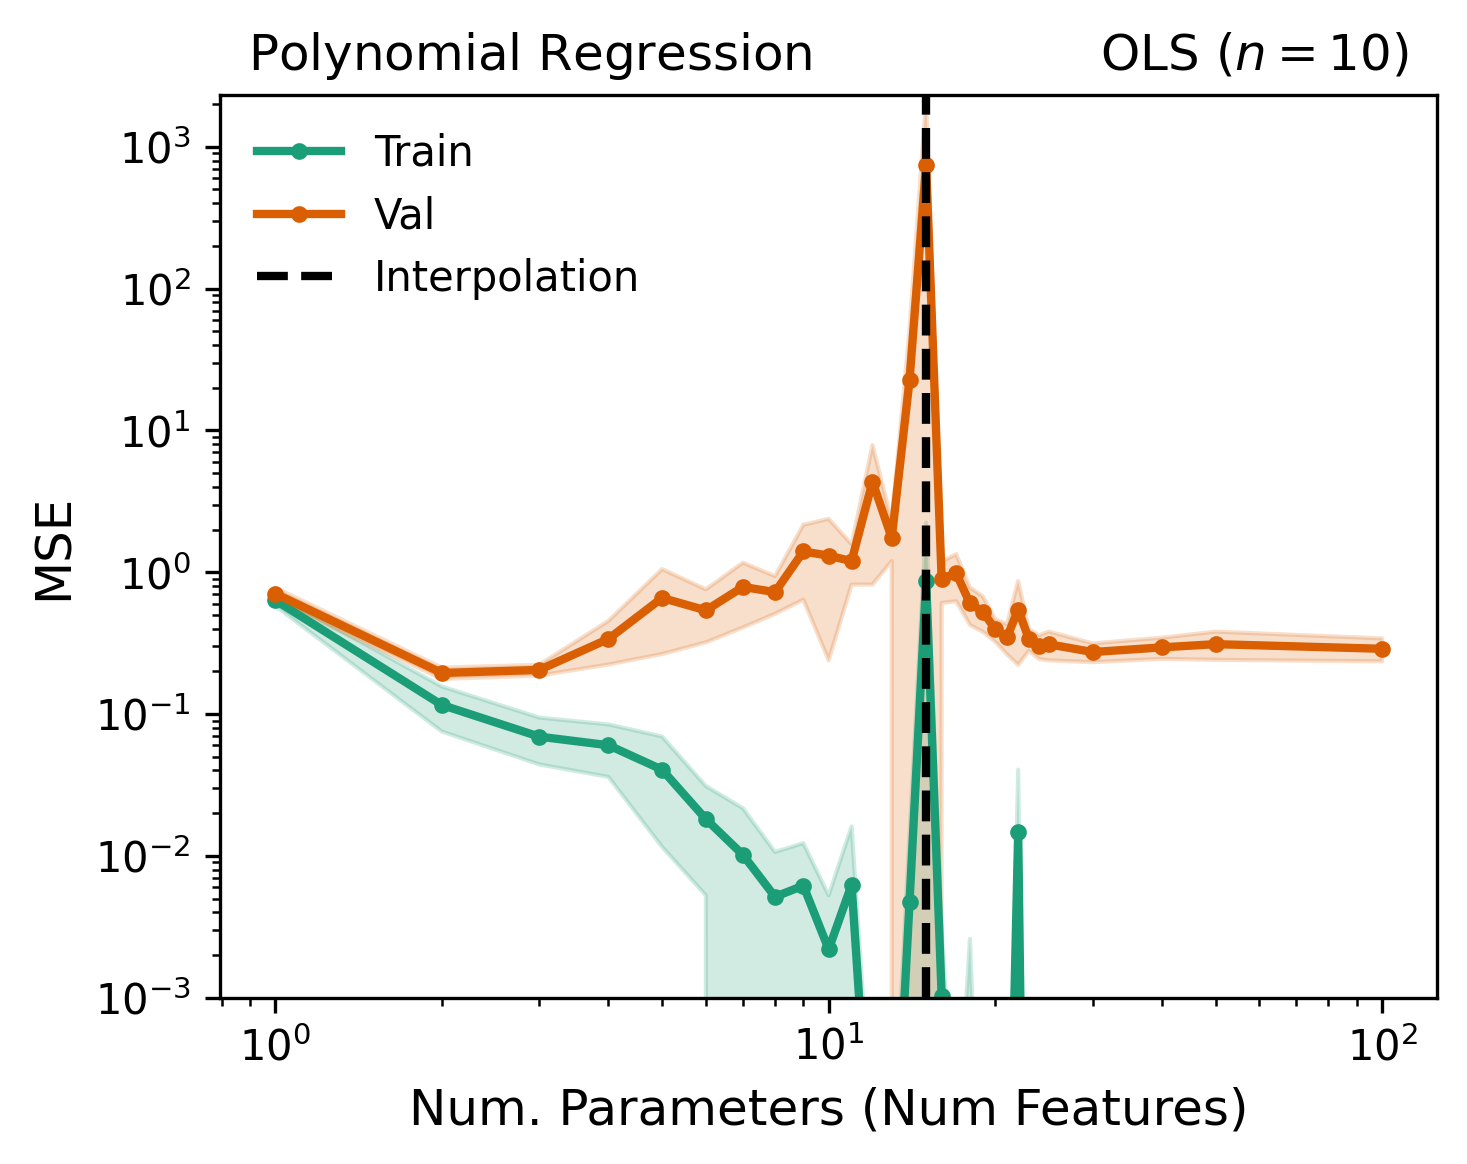
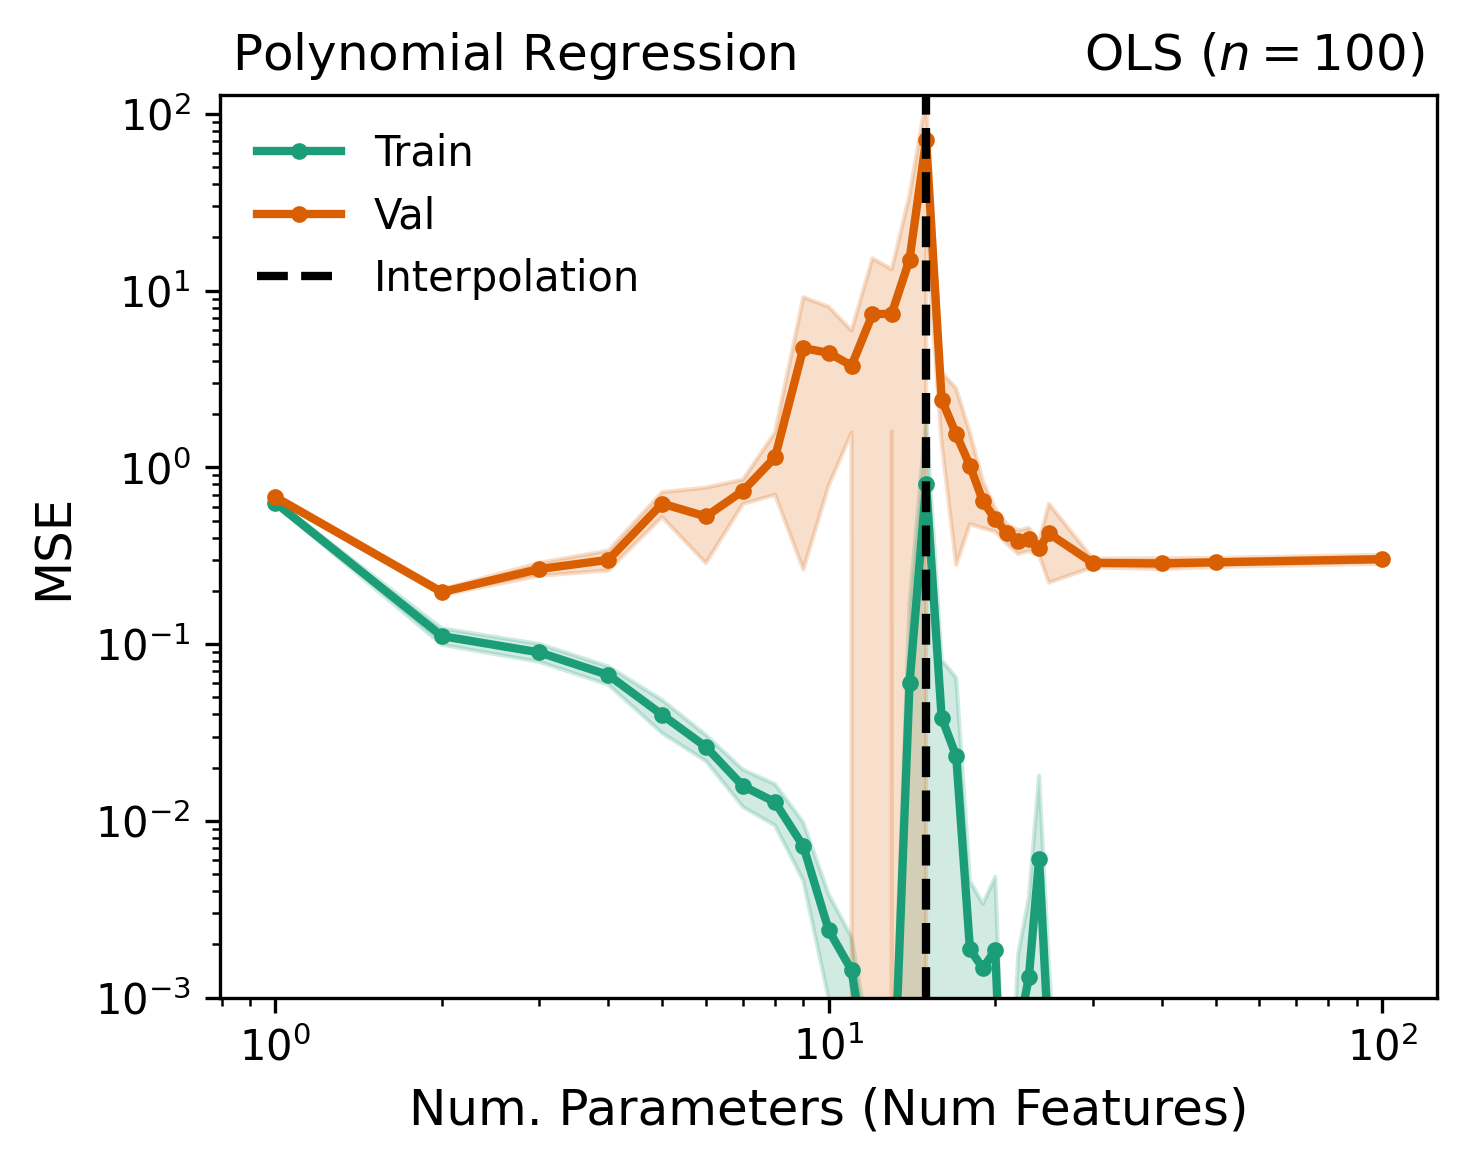
updated README

diff --git a/polynomial.py b/polynomial.py
@@ -23,7 +23,7 @@ parser.add_argument('--cpu', action='store_true', help='use cpu only')
 
 N_SAMPELS = 15
 DEGREES = mx.arange(1, 26).tolist() + [30, 40, 50, 100]
-REPEAT = 10
+REPEAT = 100
 
 ###############################################################################
 

diff --git a/README.md b/README.md
@@ -7,11 +7,11 @@
   <img src="media/polynomial_ols.png#gh-light-mode-only" alt="dd" width="50%">
 </p>
 
-_Double Descent_: ...
+_Double Descent_: a phenomenon in machine learning where test error initially increases near the interpolation threshold, as model parameters approach the number of samples, then decreases and improves generalization in the highly overparameterized regime. The term comes from [Belkin et al. (2019)](https://arxiv.org/abs/1812.11118) and this repo is inspired by [Schaeffer et al. (2023)](https://arxiv.org/abs/2303.14151).
 
 ## Background
 
-...
+We consider the case of modeling $f: x \mapsto y$ where $y = 2x + \cos \left(\frac{25x}{\sin x}\right)$ using polynomial regression. While we could solve this with gradient descent, optimized with SGD or Adam, we observe double descent consistently with a the Moore–Penrose inverse (pseudoinverse) solution to ordinary least squares.
 
 ## Running
 
